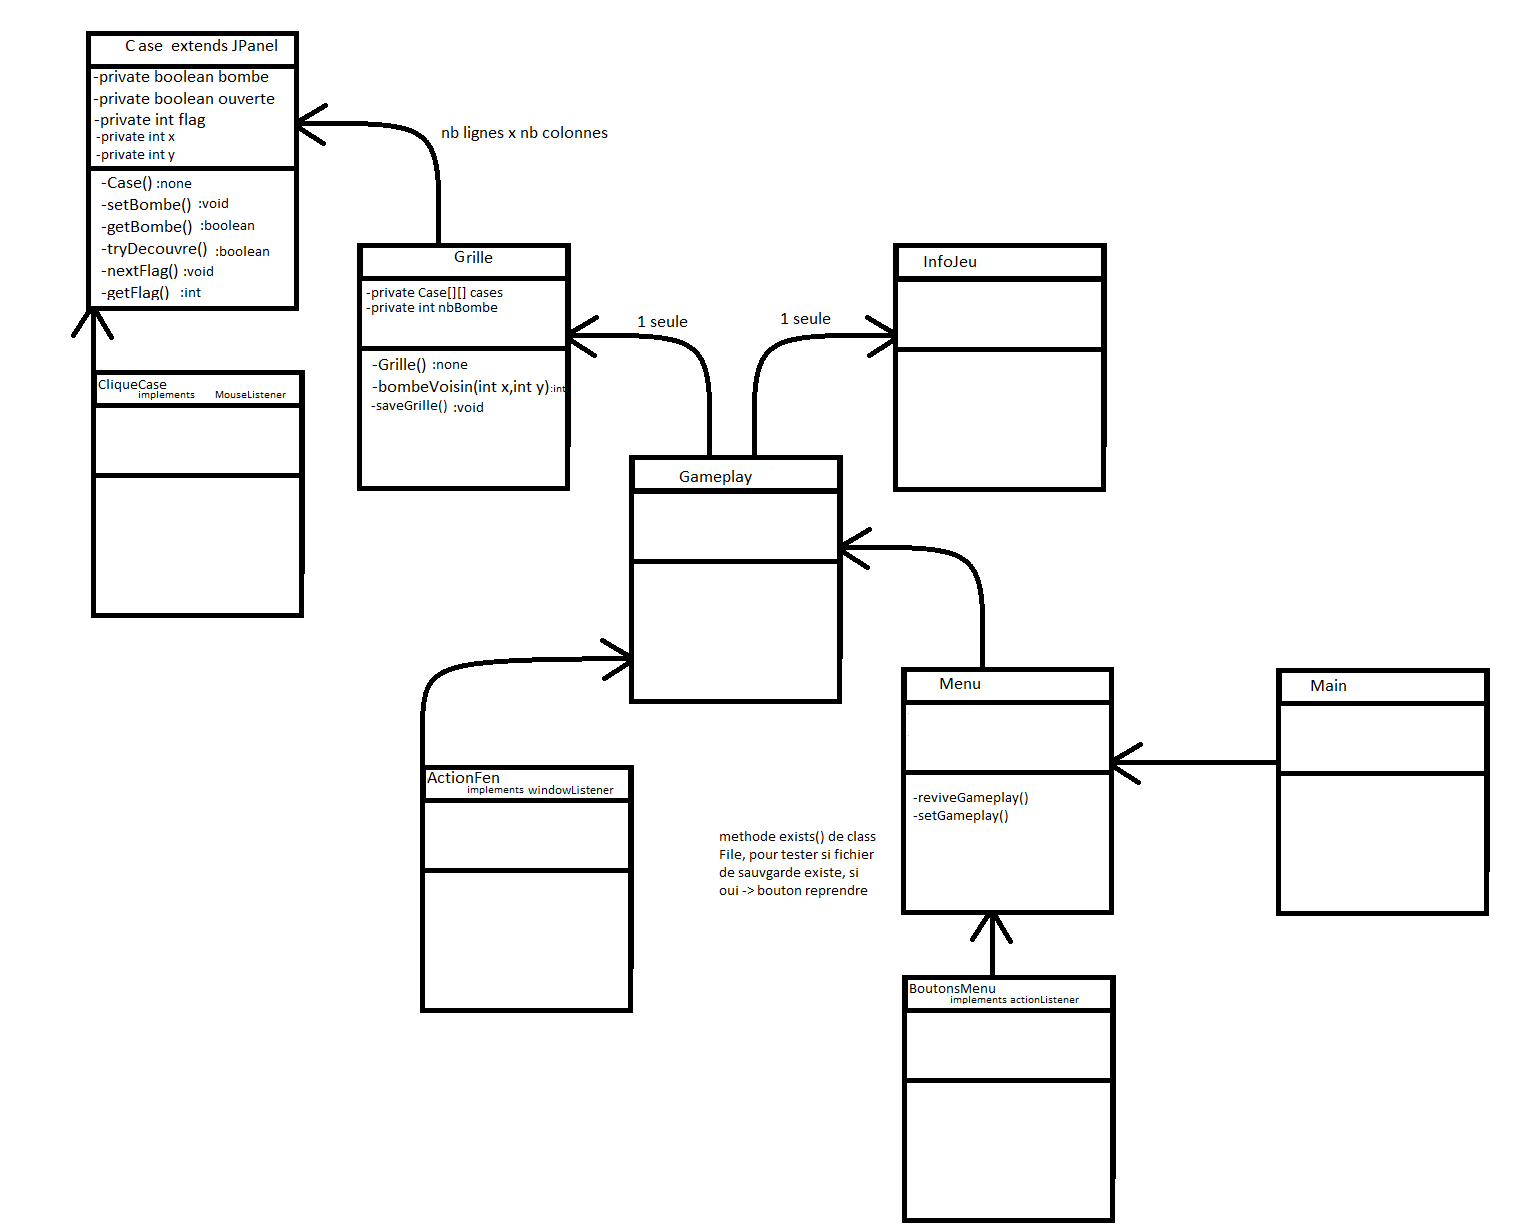
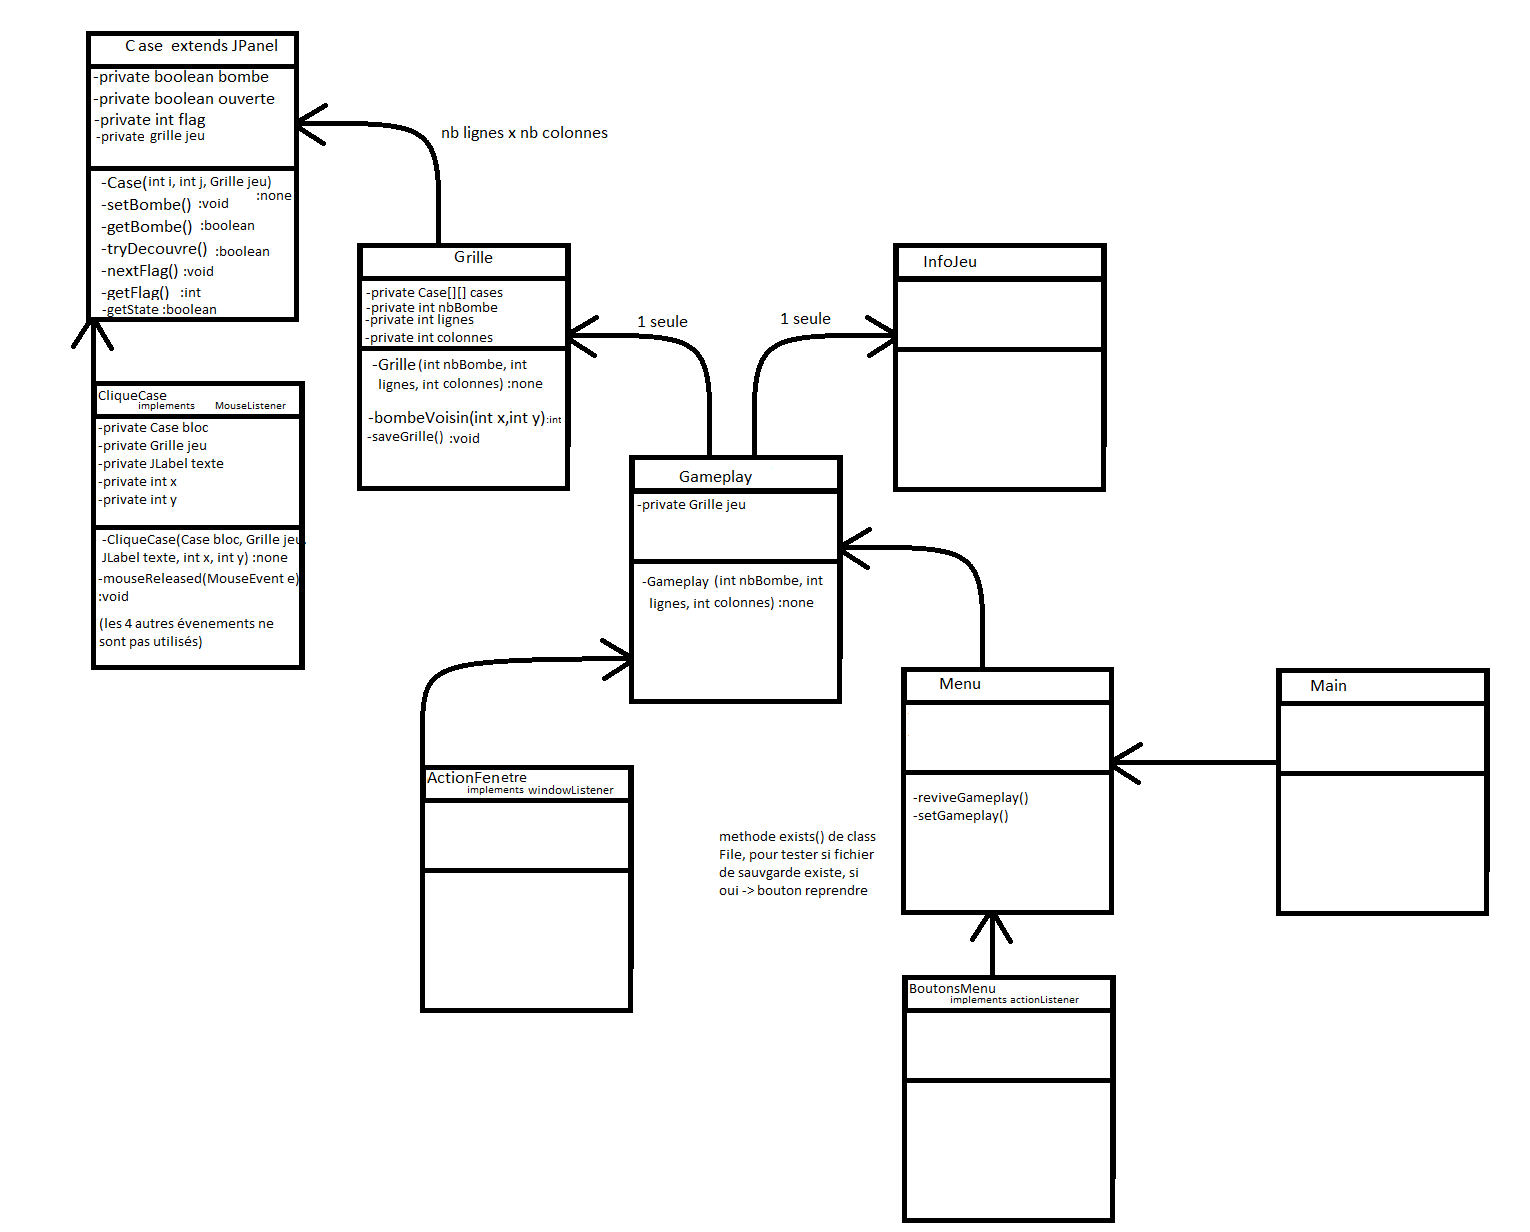
5eme etape

diff --git a/Grille.java b/Grille.java
@@ -121,11 +121,14 @@ public class Grille extends JPanel{
 			}
 		}
 
-		if(nbOuvertes+this.nbBombe == this.lignes*this.colonnes){ //bloque la partie une fois celle-ci terminer
+		if(nbOuvertes+this.nbBombe == this.lignes*this.colonnes){
+			this.info.setButtonToQuit();
 
 			this.desactiveCliqueCase();
 
-			System.out.println("victoire");
+			this.info.updateCounter(-1);
+
+			this.info.removeActionFenetre();
 
 		}
 
@@ -133,19 +136,26 @@ public class Grille extends JPanel{
 
 	public void defaite(int x,int y){
 
-		this.info.updateCounter(this.nbBombe);
+		
+		this.info.setButtonToQuit();
+
+		this.desactiveCliqueCase();
+
+		this.info.updateCounter(-2);
+
+		this.info.removeActionFenetre();
 
 		for (int i = 0; i<this.lignes ; i++) {
 			for (int j = 0; j<this.colonnes ; j++) {
 				if(cases[i][j].getBombe()){
-					if(cases[i][j].getFlag() == 0 || cases[i][j].getFlag() == 2){
+					if(cases[i][j].getFlag() !=1){
 						cases[i][j].setBackground(new Color(255,0,0));
 					}
 					if(i==x && j==y){
 						cases[i][j].setBackground(new Color(220,20,60));
 						cases[i][j].alterTexte("X");
 					}
-				}else{
+				}else if(!cases[i][j].getState()){			//ajout ici
 					cases[i][j].setBackground(new Color(120,120,120));
 
 					if(cases[i][j].getFlag() == 1){
@@ -161,13 +171,10 @@ public class Grille extends JPanel{
 				}
 			}
 		}
-		this.desactiveCliqueCase();
-
-		System.out.println("Defaite");
 
 	}
 
-	public void desactiveCliqueCase(){
+	public void desactiveCliqueCase(){	//bloque la partie une fois celle-ci terminer
 		for (int i = 0; i<this.lignes ; i++) {
 			for (int j = 0; j<this.colonnes ; j++) {
 				cases[i][j].removeMouseListener( cases[i][j].getObservateur() );

diff --git a/Gameplay.java b/Gameplay.java
@@ -7,7 +7,7 @@ public class Gameplay extends JFrame{
 
 	public Gameplay(int nbBombe, int lignes,int colonnes){
 		super("Demineur par J.Demartin et R.Gaudru");
-
+		
 		int maximum;
 		if(lignes>colonnes){	//permet de rendre l'affichage plus élégant quand le nombre de colonnes est trop grand par rapport au nombre de lignes
 			maximum=lignes;
@@ -24,7 +24,7 @@ public class Gameplay extends JFrame{
 		this.setDefaultCloseOperation(JFrame.EXIT_ON_CLOSE);
 		this.setLocationRelativeTo(null);
 		this.setResizable(false);
-
+		
 		this.info = new InfoJeu(this,nbBombe);	//mise en place du panel contenant la grille de jeu
 		info.setPreferredSize(new Dimension(tailleXinfo,tailleY));
 		this.add(info,BorderLayout.EAST);
@@ -32,7 +32,23 @@ public class Gameplay extends JFrame{
 		this.jeu = new Grille(nbBombe,lignes,colonnes,info);	//mise en place du panel contenant les informations sur la partie en cours
 		this.jeu.setPreferredSize(new Dimension(tailleXjeu,tailleY));
 		this.add(this.jeu,BorderLayout.WEST);
-
+		
 		this.setSize(tailleXjeu+tailleXinfo,tailleY);
 	}
+
+	/*public void saveGameplay(){
+	try {
+			FileOutputStream fichier = new FileOutputStream("save.dat");
+			DataOutputStream flux = new DataOutputStream(fichier);
+			
+			this.info.saveInfoJeu(flux);
+			this.jeu.saveGrille(flux);
+
+			flux.close();
+		} catch (FileNotFoundException e1) {
+			System.err.println("Erreur de sauvegarde");
+		} catch (IOException e2) {
+			System.err.println("Erreur de sauvegarde");
+		}
+	}*/
 }

diff --git a/InfoJeu.java b/InfoJeu.java
@@ -5,17 +5,46 @@ public class InfoJeu extends JPanel{
 	private Gameplay partie;
 	private JLabel counter;
 	private int nbBombe;
+	private JButton quit;
+	private BoutonInfoJeu observateur;
+	private ActionFenetre observateurFen;
 
 	public InfoJeu(Gameplay partie,int nbBombe){
 		super();
 		this.partie = partie;
 		this.nbBombe = nbBombe;
+
 		this.counter = new JLabel("Bombes: "+nbBombe);
 		this.counter.setFont(new Font(null, Font.BOLD, 15));
 		this.add(this.counter);
+
+		this.quit = new JButton("Sauvgarder et Quitter");
+		this.add(this.quit);
+		this.observateur = new BoutonInfoJeu(this.partie);
+		this.quit.addActionListener(this.observateur);
+
+		this.observateurFen = new ActionFenetre(this.partie);
+		this.partie.addWindowListener(this.observateurFen);
 	}
 
 	public void updateCounter(int nbEtoiles){
 		this.counter.setText("Bombes: "+(this.nbBombe-nbEtoiles) );
+		if(nbEtoiles==-1){
+			this.counter.setText("  Victoire!  ");
+		}else if(nbEtoiles==-2){
+			this.counter.setText("  Defaite...  ");
+		}
 	}
+
+	public void setButtonToQuit(){
+		this.quit.setText("Quitter");
+	}
+
+	public void removeActionFenetre(){
+		this.partie.removeWindowListener(this.observateurFen);
+	}
+
+	/*public void saveInfoJeu(DataOutputStream flux){
+		
+	}*/
 }

diff --git a/ActionFenetre.java b/ActionFenetre.java
@@ -1,0 +1,26 @@
+import javax.swing.*;
+import java.awt.*;
+import java.awt.event.*;
+import java.io.*;
+
+public class ActionFenetre implements WindowListener {
+	private Gameplay partie;
+
+	public ActionFenetre(Gameplay partie) {
+		super();
+		this.partie=partie;
+	}
+
+	public void windowActivated(WindowEvent evenement) {}      // premier plan
+	public void windowClosed(WindowEvent evenement) {}         // après fermeture
+
+	public void windowClosing(WindowEvent evenement) {
+		System.out.println("Fenetre Save");
+		//this.partie.saveGameplay();
+	} // avant fermeture
+
+	public void windowDeactivated(WindowEvent evenement){}   // arrière-plan
+	public void windowDeiconified(WindowEvent evenement){}    // restauration
+	public void windowIconified(WindowEvent evenement){}      // minimisation
+	public void windowOpened(WindowEvent evenement){}         // après ouverture
+}

diff --git a/Case.java b/Case.java
@@ -33,10 +33,10 @@ public class Case extends JPanel{
 
 	public boolean tryDecouvre(){
 		if(this.ouverte==false){
-			if(this.bombe && this.flag==0){
+			if(this.bombe && this.flag!=1){
 				return true;
 			}
-			if(this.flag==0){
+			if(this.flag!=1){
 				this.ouverte=true;
 			}
 		}
@@ -97,7 +97,7 @@ public class Case extends JPanel{
 
 				if(!this.jeu.getStateCase(i,j)){
 		    		int nbVoisin;
-			    	if(!this.jeu.tryDecouvreCase(i,j) && this.jeu.getFlagCase(i,j)==0){
+			    	if(!this.jeu.tryDecouvreCase(i,j) && this.jeu.getFlagCase(i,j)!=1){
 
 			    		this.jeu.setBackgroundCase(i,j,new Color(255,255,255));
 			    		nbVoisin=this.jeu.bombeVoisin(i,j);

diff --git a/BoutonInfoJeu.java b/BoutonInfoJeu.java
@@ -1,0 +1,23 @@
+import javax.swing.*;
+import java.awt.*;
+import java.awt.event.*;
+
+public class BoutonInfoJeu implements ActionListener{
+	private Gameplay partie;
+
+	public BoutonInfoJeu(Gameplay partie){
+		super();
+		this.partie=partie;
+	}
+
+	public void actionPerformed(ActionEvent e){
+		String contenu = e.getActionCommand();
+		if ( contenu.equals("Sauvgarder et Quitter") ){
+			System.out.println("Bouton Save");
+			//this.partie.saveGameplay();
+		}
+		System.exit(0);
+	}
+
+
+}

diff --git a/CliqueCase.java b/CliqueCase.java
@@ -30,7 +30,7 @@ public class CliqueCase implements MouseListener {
     		int nbVoisin;
 	    	if(e.getButton() == MouseEvent.BUTTON1){
 	    		boolean sortieTryDecouvre = this.bloc.tryDecouvre();
-	    		if(!sortieTryDecouvre && this.bloc.getFlag()==0){
+	    		if(!sortieTryDecouvre && this.bloc.getFlag()!=1){
 	    			this.bloc.setBackground(new Color(255,255,255));
 	    			nbVoisin=this.jeu.bombeVoisin(this.x,this.y);
 	    			if(nbVoisin!=0){
